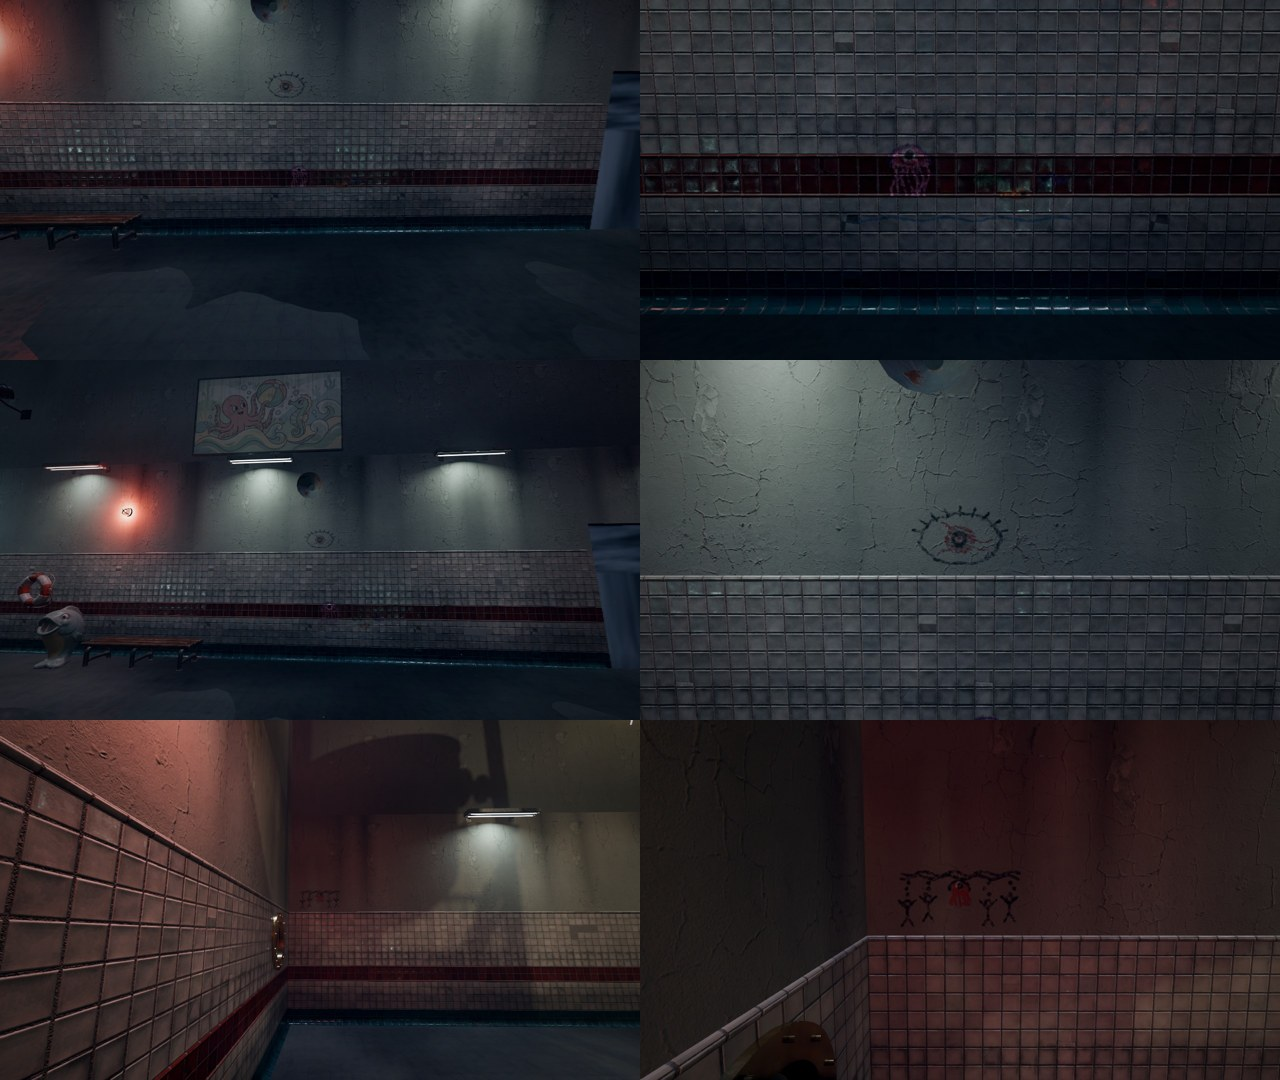
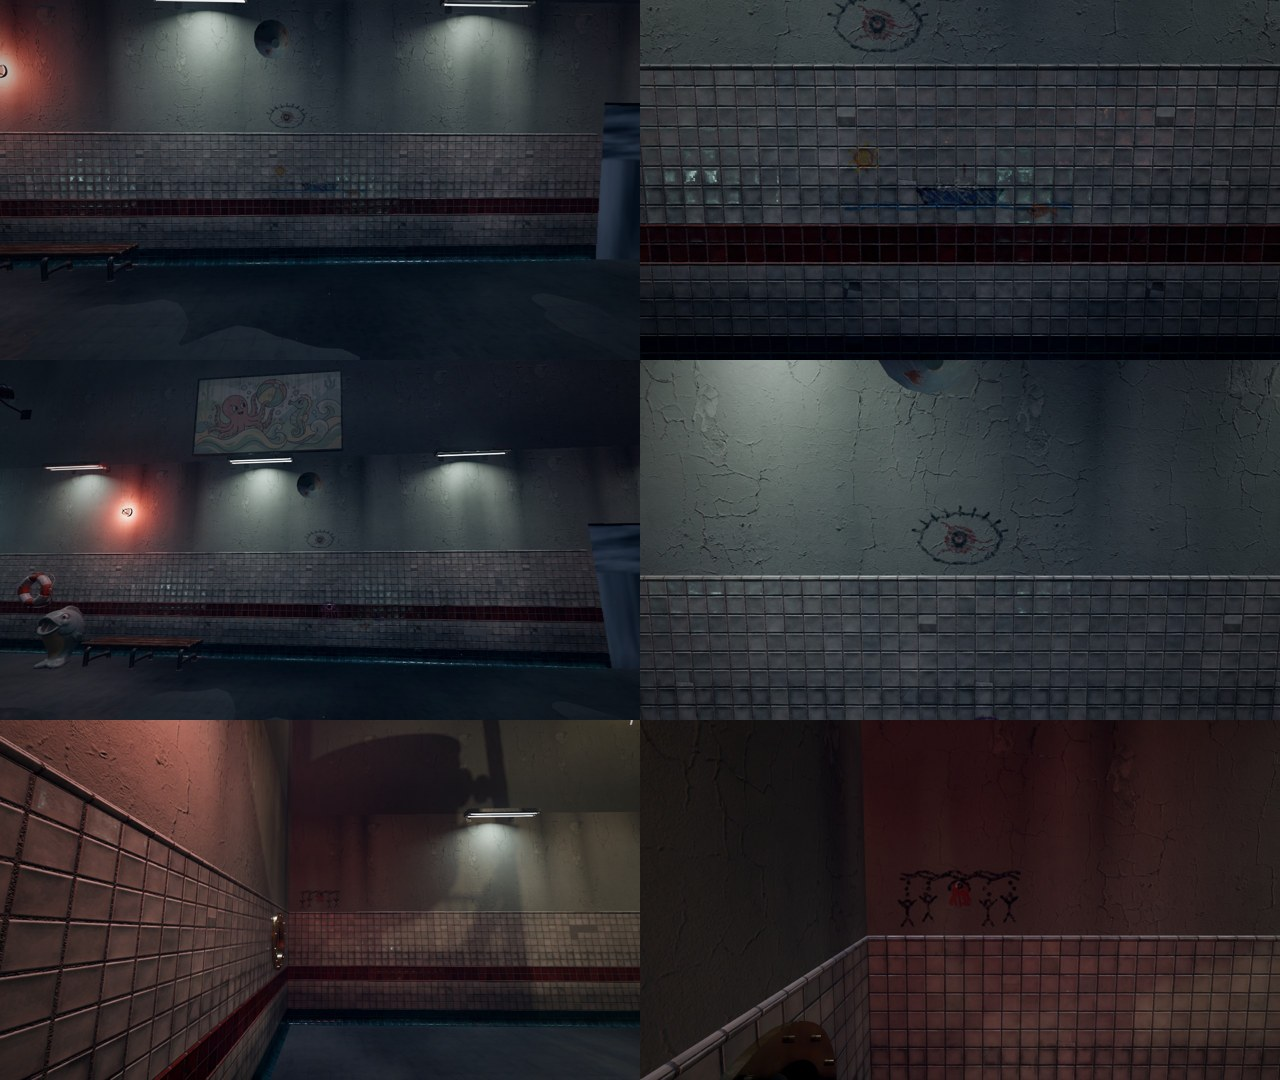
Scarabocchi: scatto e foglio di sala_1 rifatti (la nave sulle piastrelle bianche), verifica 18 muri su 18
Claude-Session: https://claude.ai/code/session_019HZGeneQaXJBRDNw4H3tQj

Changed region(s): [[0.0, 0.0, 1.0, 0.3361]]

diff --git a/docs/proposte/scarabocchi/LEGGIMI.md b/docs/proposte/scarabocchi/LEGGIMI.md
@@ -20,7 +20,7 @@ Branch `lavoro/scarabocchi`. **Niente si unisce senza l'ok dell'utente.**
 | torre | 3 | la nave col sole; i bambini per mano con Jilly sorridente | le manine che salgono |
 | inseguimento | 3 | i pesci sotto le onde; Jilly coi pesci | l'occhio solo |
 | tunnel | 5 | spirale, macchia viola e scarabocchio; la nave; l'omino cancellato e il tondo verde | i bambini sott'acqua; le manine |
-| sala | 3 | Jilly coi pesci (sulla fascia di piastrelle) | l'occhio solo; i bambini sott'acqua |
+| sala | 3 | la nave col sole (sulle piastrelle bianche sopra la riga rossa) | l'occhio solo; i bambini sott'acqua |
 | risalita | 2 | spirale, macchia viola e scarabocchio; l'omino cancellato | |
 | tecnici | 1 | la nave col sole | |
 | fiume | 1 | i pesci sotto le onde | |
@@ -36,7 +36,8 @@ Branch `lavoro/scarabocchi`. **Niente si unisce senza l'ok dell'utente.**
 
 - **inseguimento_1**: alzato sopra l'acqua allagata (pelo -33,40). Il bordo basso del disegno ora è a -33,20, con 20 cm
   di margine.
-- **sala_1**: più piccolo (1,6 × 0,6 m) e più alto, sulla parte piatta delle piastrelle.
+- **sala_1**: più piccolo (1,6 × 0,5 m), sulle piastrelle bianche sopra la riga rossa (da 1,05 a 1,55 m), e la nave al
+  posto di Jilly rosa, che in sala sembrava la medusina del disegno degli acquari.
 - **alto_sala_3**: più stretto (0,8 m) e spostato via dall'angolo.
 - **torre_3**: spostato e rimpicciolito (1,4 × 0,7 m) via dalle scale, che a 12-13 cm dal muro sarebbero state dipinte.
   La verifica passa anche spostandolo di 10-20 cm da tutte e due le parti.
